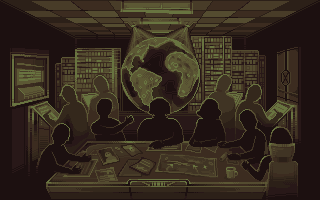
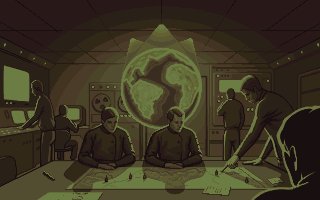
new art, #91

diff --git a/LICENSE.md b/LICENSE.md
@@ -63,6 +63,8 @@ Here is a full list of that assets:
 * CULT_BACKGROUND.png
 * INTEL_STATE.png
 * SECRET_AGENT.png
+* COVEROPSHQ_BACKGROUND.png
+* Resources\Backgrounds\INTEL_BACKGROUND.png
 
 Any other content, created by me, contributed for free by the community members, and of course, adapted or reused from another projects is distributed under **CC BY-NC-SA 4.0.**
 
